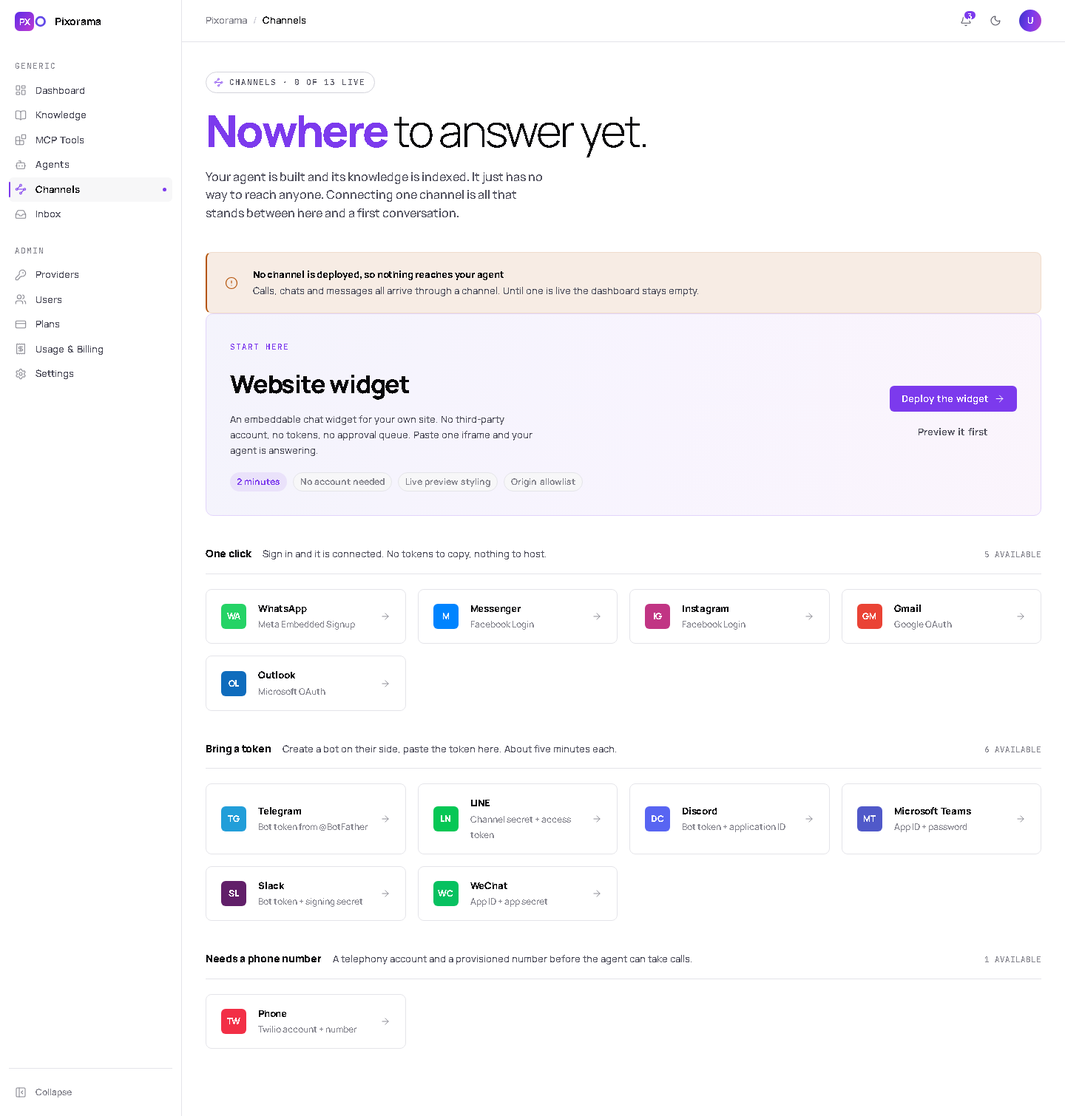
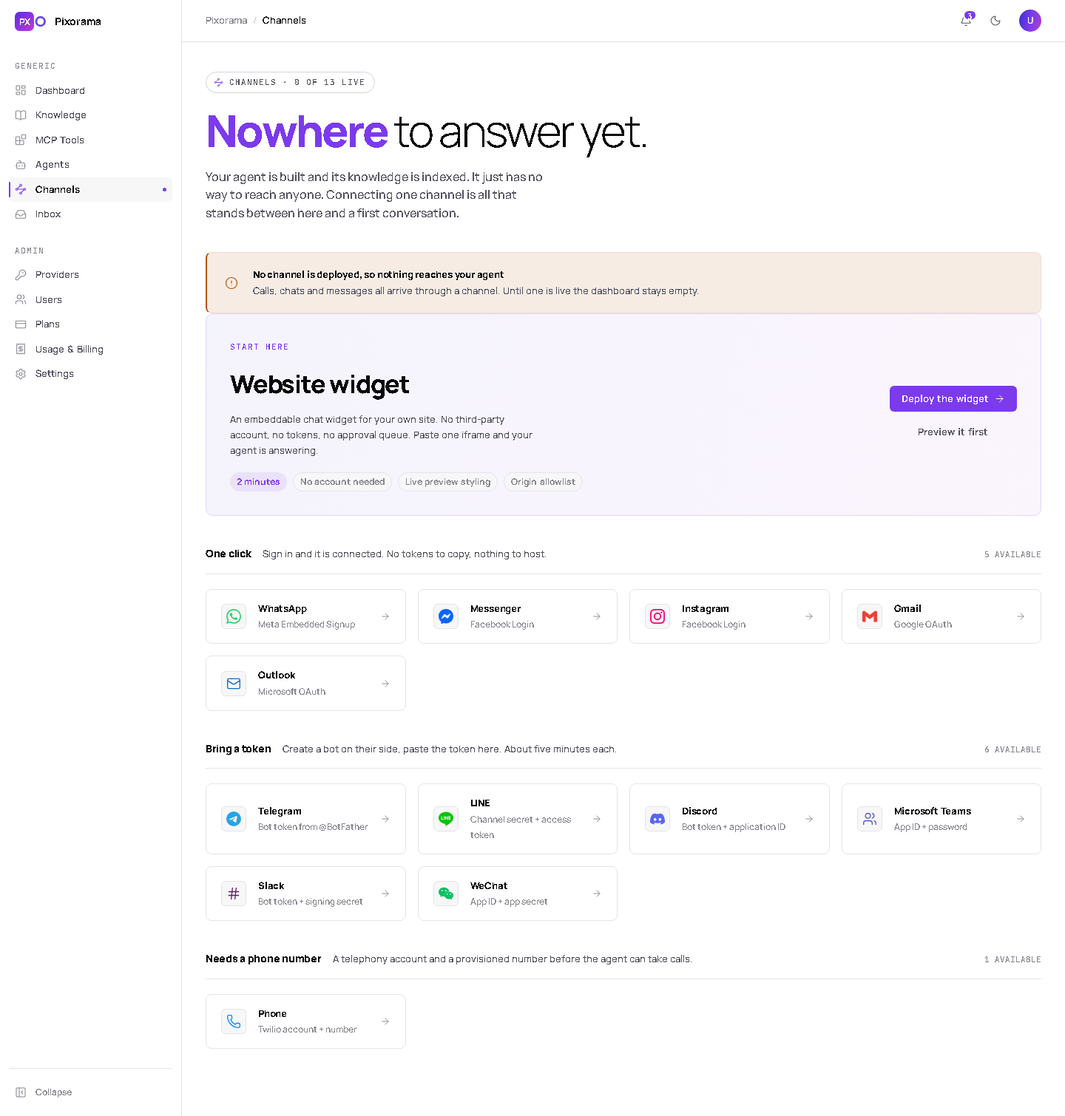
Use real brand marks for channels and tool catalogue
Channel tiles were two-letter squares — "WA", "TG", "IG" — which are not
logos at all. They now render the actual marks from simple-icons (CC0):
WhatsApp, Messenger, Instagram, Gmail, Telegram, LINE, Discord, WeChat,
plus GitHub, Notion, Jira, Stripe, HubSpot, Zendesk, Airtable, Drive,
Asana, Intercom, Calendly, Shopify, 1Password and Linear in the MCP
catalogue.

Microsoft, Slack, Twilio and Salesforce are absent on purpose. All four
had their icons removed from simple-icons at their own trademark
request, so there is no licensed mark to use. Rather than redraw them —
the exact habit the last two commits removed — they fall back to a
functional Lucide glyph in the brand colour: Outlook gets mail, Teams
gets users, Slack gets a hash because its channels are #channel, Twilio
gets a phone.

The mark container changed with them. A coloured slab with white
initials made sense for initials; for a logo it fights. Tiles now use a
neutral well with the mark in its own brand colour, which is also how
the live product presents them.

Applied everywhere a channel appears: the Channels grid, the Inbox
conversation list and thread header, and the deployed-channels list in
Settings.

diff --git a/index.html b/index.html
@@ -10,7 +10,7 @@
 <body>
 
 <svg width="0" height="0" style="position:absolute" aria-hidden="true">
-  <!-- Lucide (ISC) + the PXO brand mark. Generated by build-icons.mjs — do not edit by hand. -->
+  <!-- Lucide (ISC), simple-icons brand marks (CC0), and the PXO mark. Generated by build-icons.mjs — do not edit by hand. -->
   <defs>
     <symbol id="i-dash" viewBox="0 0 24 24" fill="none" stroke="currentColor" stroke-linecap="round" stroke-linejoin="round"><rect width="7" height="9" x="3" y="3" rx="1" /><rect width="7" height="5" x="14" y="3" rx="1" /><rect width="7" height="9" x="14" y="12" rx="1" /><rect width="7" height="5" x="3" y="16" rx="1" /></symbol>
     <symbol id="i-blocks" viewBox="0 0 24 24" fill="none" stroke="currentColor" stroke-linecap="round" stroke-linejoin="round"><path d="M10 22V7a1 1 0 0 0-1-1H4a2 2 0 0 0-2 2v12a2 2 0 0 0 2 2h12a2 2 0 0 0 2-2v-5a1 1 0 0 0-1-1H2" /><rect x="14" y="2" width="8" height="8" rx="1" /></symbol>
@@ -20,6 +20,9 @@
     <symbol id="i-info" viewBox="0 0 24 24" fill="none" stroke="currentColor" stroke-linecap="round" stroke-linejoin="round"><circle cx="12" cy="12" r="10" /><path d="M12 16v-4" /><path d="M12 8h.01" /></symbol>
     <symbol id="i-warn" viewBox="0 0 24 24" fill="none" stroke="currentColor" stroke-linecap="round" stroke-linejoin="round"><circle cx="12" cy="12" r="10" /><line x1="12" x2="12" y1="8" y2="12" /><line x1="12" x2="12.01" y1="16" y2="16" /></symbol>
     <symbol id="i-server" viewBox="0 0 24 24" fill="none" stroke="currentColor" stroke-linecap="round" stroke-linejoin="round"><rect width="20" height="8" x="2" y="2" rx="2" ry="2" /><rect width="20" height="8" x="2" y="14" rx="2" ry="2" /><line x1="6" x2="6.01" y1="6" y2="6" /><line x1="6" x2="6.01" y1="18" y2="18" /></symbol>
+    <symbol id="i-hash" viewBox="0 0 24 24" fill="none" stroke="currentColor" stroke-linecap="round" stroke-linejoin="round"><line x1="4" x2="20" y1="9" y2="9" /><line x1="4" x2="20" y1="15" y2="15" /><line x1="10" x2="8" y1="3" y2="21" /><line x1="16" x2="14" y1="3" y2="21" /></symbol>
+    <symbol id="i-cloud" viewBox="0 0 24 24" fill="none" stroke="currentColor" stroke-linecap="round" stroke-linejoin="round"><path d="M17.5 19H9a7 7 0 1 1 6.71-9h1.79a4.5 4.5 0 1 1 0 9Z" /></symbol>
+    <symbol id="i-mail" viewBox="0 0 24 24" fill="none" stroke="currentColor" stroke-linecap="round" stroke-linejoin="round"><path d="m22 7-8.991 5.727a2 2 0 0 1-2.009 0L2 7" /><rect x="2" y="4" width="20" height="16" rx="2" /></symbol>
     <symbol id="i-book" viewBox="0 0 24 24" fill="none" stroke="currentColor" stroke-linecap="round" stroke-linejoin="round"><path d="M12 5v16" /><path d="M20.001 19A2 2 0 0022 17V5a2 2 0 00-1.999-2L16 3.002A5 5 0 0012 5a5 5 0 00-4-2H4a2 2 0 00-2 2v12a2 2 0 001.999 2H8a5 5 0 014 2 5 5 0 014-2z" /></symbol>
     <symbol id="i-zap" viewBox="0 0 24 24" fill="none" stroke="currentColor" stroke-linecap="round" stroke-linejoin="round"><path d="M15.914 4a1.5 1.5 0 00-2.474-1.561l-9 9A1.5 1.5 0 005.5 14h4.002a.5.5 0 01.471.666L8.086 20a1.5 1.5 0 002.475 1.56l9-9A1.5 1.5 0 0018.5 10h-3.997a.5.5 0 01-.472-.667z" /></symbol>
     <symbol id="i-bot" viewBox="0 0 24 24" fill="none" stroke="currentColor" stroke-linecap="round" stroke-linejoin="round"><path d="M12 8V4H8" /><rect width="16" height="12" x="4" y="8" rx="2" /><path d="M2 14h2" /><path d="M20 14h2" /><path d="M15 13v2" /><path d="M9 13v2" /></symbol>
@@ -50,6 +53,29 @@
     <symbol id="i-close" viewBox="0 0 24 24" fill="none" stroke="currentColor" stroke-linecap="round" stroke-linejoin="round"><path d="M18 6 6 18" /><path d="m6 6 12 12" /></symbol>
     <symbol id="i-trash" viewBox="0 0 24 24" fill="none" stroke="currentColor" stroke-linecap="round" stroke-linejoin="round"><path d="M10 11v6" /><path d="M14 11v6" /><path d="M19 6v14a2 2 0 0 1-2 2H7a2 2 0 0 1-2-2V6" /><path d="M3 6h18" /><path d="M8 6V4a2 2 0 0 1 2-2h4a2 2 0 0 1 2 2v2" /></symbol>
     <symbol id="i-file" viewBox="0 0 24 24" fill="none" stroke="currentColor" stroke-linecap="round" stroke-linejoin="round"><path d="M6 22a2 2 0 0 1-2-2V4a2 2 0 0 1 2-2h8a2.4 2.4 0 0 1 1.704.706l3.588 3.588A2.4 2.4 0 0 1 20 8v12a2 2 0 0 1-2 2z" /><path d="M14 2v5a1 1 0 0 0 1 1h5" /><path d="M10 9H8" /><path d="M16 13H8" /><path d="M16 17H8" /></symbol>
+    <symbol id="b-whatsapp" viewBox="0 0 24 24"><path fill="currentColor" d="M17.472 14.382c-.297-.149-1.758-.867-2.03-.967-.273-.099-.471-.148-.67.15-.197.297-.767.966-.94 1.164-.173.199-.347.223-.644.075-.297-.15-1.255-.463-2.39-1.475-.883-.788-1.48-1.761-1.653-2.059-.173-.297-.018-.458.13-.606.134-.133.298-.347.446-.52.149-.174.198-.298.298-.497.099-.198.05-.371-.025-.52-.075-.149-.669-1.612-.916-2.207-.242-.579-.487-.5-.669-.51-.173-.008-.371-.01-.57-.01-.198 0-.52.074-.792.372-.272.297-1.04 1.016-1.04 2.479 0 1.462 1.065 2.875 1.213 3.074.149.198 2.096 3.2 5.077 4.487.709.306 1.262.489 1.694.625.712.227 1.36.195 1.871.118.571-.085 1.758-.719 2.006-1.413.248-.694.248-1.289.173-1.413-.074-.124-.272-.198-.57-.347m-5.421 7.403h-.004a9.87 9.87 0 01-5.031-1.378l-.361-.214-3.741.982.998-3.648-.235-.374a9.86 9.86 0 01-1.51-5.26c.001-5.45 4.436-9.884 9.888-9.884 2.64 0 5.122 1.03 6.988 2.898a9.825 9.825 0 012.893 6.994c-.003 5.45-4.437 9.884-9.885 9.884m8.413-18.297A11.815 11.815 0 0012.05 0C5.495 0 .16 5.335.157 11.892c0 2.096.547 4.142 1.588 5.945L.057 24l6.305-1.654a11.882 11.882 0 005.683 1.448h.005c6.554 0 11.89-5.335 11.893-11.893a11.821 11.821 0 00-3.48-8.413Z"/></symbol>
+    <symbol id="b-telegram" viewBox="0 0 24 24"><path fill="currentColor" d="M11.944 0A12 12 0 0 0 0 12a12 12 0 0 0 12 12 12 12 0 0 0 12-12A12 12 0 0 0 12 0a12 12 0 0 0-.056 0zm4.962 7.224c.1-.002.321.023.465.14a.506.506 0 0 1 .171.325c.016.093.036.306.02.472-.18 1.898-.962 6.502-1.36 8.627-.168.9-.499 1.201-.82 1.23-.696.065-1.225-.46-1.9-.902-1.056-.693-1.653-1.124-2.678-1.8-1.185-.78-.417-1.21.258-1.91.177-.184 3.247-2.977 3.307-3.23.007-.032.014-.15-.056-.212s-.174-.041-.249-.024c-.106.024-1.793 1.14-5.061 3.345-.48.33-.913.49-1.302.48-.428-.008-1.252-.241-1.865-.44-.752-.245-1.349-.374-1.297-.789.027-.216.325-.437.893-.663 3.498-1.524 5.83-2.529 6.998-3.014 3.332-1.386 4.025-1.627 4.476-1.635z"/></symbol>
+    <symbol id="b-line" viewBox="0 0 24 24"><path fill="currentColor" d="M19.365 9.863c.349 0 .63.285.63.631 0 .345-.281.63-.63.63H17.61v1.125h1.755c.349 0 .63.283.63.63 0 .344-.281.629-.63.629h-2.386c-.345 0-.627-.285-.627-.629V8.108c0-.345.282-.63.63-.63h2.386c.346 0 .627.285.627.63 0 .349-.281.63-.63.63H17.61v1.125h1.755zm-3.855 3.016c0 .27-.174.51-.432.596-.064.021-.133.031-.199.031-.211 0-.391-.09-.51-.25l-2.443-3.317v2.94c0 .344-.279.629-.631.629-.346 0-.626-.285-.626-.629V8.108c0-.27.173-.51.43-.595.06-.023.136-.033.194-.033.195 0 .375.104.495.254l2.462 3.33V8.108c0-.345.282-.63.63-.63.345 0 .63.285.63.63v4.771zm-5.741 0c0 .344-.282.629-.631.629-.345 0-.627-.285-.627-.629V8.108c0-.345.282-.63.63-.63.346 0 .628.285.628.63v4.771zm-2.466.629H4.917c-.345 0-.63-.285-.63-.629V8.108c0-.345.285-.63.63-.63.348 0 .63.285.63.63v4.141h1.756c.348 0 .629.283.629.63 0 .344-.282.629-.629.629M24 10.314C24 4.943 18.615.572 12 .572S0 4.943 0 10.314c0 4.811 4.27 8.842 10.035 9.608.391.082.923.258 1.058.59.12.301.079.766.038 1.08l-.164 1.02c-.045.301-.24 1.186 1.049.645 1.291-.539 6.916-4.078 9.436-6.975C23.176 14.393 24 12.458 24 10.314"/></symbol>
+    <symbol id="b-messenger" viewBox="0 0 24 24"><path fill="currentColor" d="M12 0C5.24 0 0 4.952 0 11.64c0 3.499 1.434 6.521 3.769 8.61a.96.96 0 0 1 .323.683l.065 2.135a.96.96 0 0 0 1.347.85l2.381-1.053a.96.96 0 0 1 .641-.046A13 13 0 0 0 12 23.28c6.76 0 12-4.952 12-11.64S18.76 0 12 0m6.806 7.44c.522-.03.971.567.63 1.094l-4.178 6.457a.707.707 0 0 1-.977.208l-3.87-2.504a.44.44 0 0 0-.49.007l-4.363 3.01c-.637.438-1.415-.317-.995-.966l4.179-6.457a.706.706 0 0 1 .977-.21l3.87 2.505c.15.097.344.094.491-.007l4.362-3.008a.7.7 0 0 1 .364-.13"/></symbol>
+    <symbol id="b-instagram" viewBox="0 0 24 24"><path fill="currentColor" d="M7.0301.084c-1.2768.0602-2.1487.264-2.911.5634-.7888.3075-1.4575.72-2.1228 1.3877-.6652.6677-1.075 1.3368-1.3802 2.127-.2954.7638-.4956 1.6365-.552 2.914-.0564 1.2775-.0689 1.6882-.0626 4.947.0062 3.2586.0206 3.6671.0825 4.9473.061 1.2765.264 2.1482.5635 2.9107.308.7889.72 1.4573 1.388 2.1228.6679.6655 1.3365 1.0743 2.1285 1.38.7632.295 1.6361.4961 2.9134.552 1.2773.056 1.6884.069 4.9462.0627 3.2578-.0062 3.668-.0207 4.9478-.0814 1.28-.0607 2.147-.2652 2.9098-.5633.7889-.3086 1.4578-.72 2.1228-1.3881.665-.6682 1.0745-1.3378 1.3795-2.1284.2957-.7632.4966-1.636.552-2.9124.056-1.2809.0692-1.6898.063-4.948-.0063-3.2583-.021-3.6668-.0817-4.9465-.0607-1.2797-.264-2.1487-.5633-2.9117-.3084-.7889-.72-1.4568-1.3876-2.1228C21.2982 1.33 20.628.9208 19.8378.6165 19.074.321 18.2017.1197 16.9244.0645 15.6471.0093 15.236-.005 11.977.0014 8.718.0076 8.31.0215 7.0301.0839m.1402 21.6932c-1.17-.0509-1.8053-.2453-2.2287-.408-.5606-.216-.96-.4771-1.3819-.895-.422-.4178-.6811-.8186-.9-1.378-.1644-.4234-.3624-1.058-.4171-2.228-.0595-1.2645-.072-1.6442-.079-4.848-.007-3.2037.0053-3.583.0607-4.848.05-1.169.2456-1.805.408-2.2282.216-.5613.4762-.96.895-1.3816.4188-.4217.8184-.6814 1.3783-.9003.423-.1651 1.0575-.3614 2.227-.4171 1.2655-.06 1.6447-.072 4.848-.079 3.2033-.007 3.5835.005 4.8495.0608 1.169.0508 1.8053.2445 2.228.408.5608.216.96.4754 1.3816.895.4217.4194.6816.8176.9005 1.3787.1653.4217.3617 1.056.4169 2.2263.0602 1.2655.0739 1.645.0796 4.848.0058 3.203-.0055 3.5834-.061 4.848-.051 1.17-.245 1.8055-.408 2.2294-.216.5604-.4763.96-.8954 1.3814-.419.4215-.8181.6811-1.3783.9-.4224.1649-1.0577.3617-2.2262.4174-1.2656.0595-1.6448.072-4.8493.079-3.2045.007-3.5825-.006-4.848-.0608M16.953 5.5864A1.44 1.44 0 1 0 18.39 4.144a1.44 1.44 0 0 0-1.437 1.4424M5.8385 12.012c.0067 3.4032 2.7706 6.1557 6.173 6.1493 3.4026-.0065 6.157-2.7701 6.1506-6.1733-.0065-3.4032-2.771-6.1565-6.174-6.1498-3.403.0067-6.156 2.771-6.1496 6.1738M8 12.0077a4 4 0 1 1 4.008 3.9921A3.9996 3.9996 0 0 1 8 12.0077"/></symbol>
+    <symbol id="b-discord" viewBox="0 0 24 24"><path fill="currentColor" d="M20.317 4.3698a19.7913 19.7913 0 00-4.8851-1.5152.0741.0741 0 00-.0785.0371c-.211.3753-.4447.8648-.6083 1.2495-1.8447-.2762-3.68-.2762-5.4868 0-.1636-.3933-.4058-.8742-.6177-1.2495a.077.077 0 00-.0785-.037 19.7363 19.7363 0 00-4.8852 1.515.0699.0699 0 00-.0321.0277C.5334 9.0458-.319 13.5799.0992 18.0578a.0824.0824 0 00.0312.0561c2.0528 1.5076 4.0413 2.4228 5.9929 3.0294a.0777.0777 0 00.0842-.0276c.4616-.6304.8731-1.2952 1.226-1.9942a.076.076 0 00-.0416-.1057c-.6528-.2476-1.2743-.5495-1.8722-.8923a.077.077 0 01-.0076-.1277c.1258-.0943.2517-.1923.3718-.2914a.0743.0743 0 01.0776-.0105c3.9278 1.7933 8.18 1.7933 12.0614 0a.0739.0739 0 01.0785.0095c.1202.099.246.1981.3728.2924a.077.077 0 01-.0066.1276 12.2986 12.2986 0 01-1.873.8914.0766.0766 0 00-.0407.1067c.3604.698.7719 1.3628 1.225 1.9932a.076.076 0 00.0842.0286c1.961-.6067 3.9495-1.5219 6.0023-3.0294a.077.077 0 00.0313-.0552c.5004-5.177-.8382-9.6739-3.5485-13.6604a.061.061 0 00-.0312-.0286zM8.02 15.3312c-1.1825 0-2.1569-1.0857-2.1569-2.419 0-1.3332.9555-2.4189 2.157-2.4189 1.2108 0 2.1757 1.0952 2.1568 2.419 0 1.3332-.9555 2.4189-2.1569 2.4189zm7.9748 0c-1.1825 0-2.1569-1.0857-2.1569-2.419 0-1.3332.9554-2.4189 2.1569-2.4189 1.2108 0 2.1757 1.0952 2.1568 2.419 0 1.3332-.946 2.4189-2.1568 2.4189Z"/></symbol>
+    <symbol id="b-wechat" viewBox="0 0 24 24"><path fill="currentColor" d="M8.691 2.188C3.891 2.188 0 5.476 0 9.53c0 2.212 1.17 4.203 3.002 5.55a.59.59 0 0 1 .213.665l-.39 1.48c-.019.07-.048.141-.048.213 0 .163.13.295.29.295a.326.326 0 0 0 .167-.054l1.903-1.114a.864.864 0 0 1 .717-.098 10.16 10.16 0 0 0 2.837.403c.276 0 .543-.027.811-.05-.857-2.578.157-4.972 1.932-6.446 1.703-1.415 3.882-1.98 5.853-1.838-.576-3.583-4.196-6.348-8.596-6.348zM5.785 5.991c.642 0 1.162.529 1.162 1.18a1.17 1.17 0 0 1-1.162 1.178A1.17 1.17 0 0 1 4.623 7.17c0-.651.52-1.18 1.162-1.18zm5.813 0c.642 0 1.162.529 1.162 1.18a1.17 1.17 0 0 1-1.162 1.178 1.17 1.17 0 0 1-1.162-1.178c0-.651.52-1.18 1.162-1.18zm5.34 2.867c-1.797-.052-3.746.512-5.28 1.786-1.72 1.428-2.687 3.72-1.78 6.22.942 2.453 3.666 4.229 6.884 4.229.826 0 1.622-.12 2.361-.336a.722.722 0 0 1 .598.082l1.584.926a.272.272 0 0 0 .14.047c.134 0 .24-.111.24-.247 0-.06-.023-.12-.038-.177l-.327-1.233a.582.582 0 0 1-.023-.156.49.49 0 0 1 .201-.398C23.024 18.48 24 16.82 24 14.98c0-3.21-2.931-5.837-6.656-6.088V8.89c-.135-.01-.27-.027-.407-.03zm-2.53 3.274c.535 0 .969.44.969.982a.976.976 0 0 1-.969.983.976.976 0 0 1-.969-.983c0-.542.434-.982.97-.982zm4.844 0c.535 0 .969.44.969.982a.976.976 0 0 1-.969.983.976.976 0 0 1-.969-.983c0-.542.434-.982.969-.982z"/></symbol>
+    <symbol id="b-gmail" viewBox="0 0 24 24"><path fill="currentColor" d="M24 5.457v13.909c0 .904-.732 1.636-1.636 1.636h-3.819V11.73L12 16.64l-6.545-4.91v9.273H1.636A1.636 1.636 0 0 1 0 19.366V5.457c0-2.023 2.309-3.178 3.927-1.964L5.455 4.64 12 9.548l6.545-4.91 1.528-1.145C21.69 2.28 24 3.434 24 5.457z"/></symbol>
+    <symbol id="b-github" viewBox="0 0 24 24"><path fill="currentColor" d="M12 .297c-6.63 0-12 5.373-12 12 0 5.303 3.438 9.8 8.205 11.385.6.113.82-.258.82-.577 0-.285-.01-1.04-.015-2.04-3.338.724-4.042-1.61-4.042-1.61C4.422 18.07 3.633 17.7 3.633 17.7c-1.087-.744.084-.729.084-.729 1.205.084 1.838 1.236 1.838 1.236 1.07 1.835 2.809 1.305 3.495.998.108-.776.417-1.305.76-1.605-2.665-.3-5.466-1.332-5.466-5.93 0-1.31.465-2.38 1.235-3.22-.135-.303-.54-1.523.105-3.176 0 0 1.005-.322 3.3 1.23.96-.267 1.98-.399 3-.405 1.02.006 2.04.138 3 .405 2.28-1.552 3.285-1.23 3.285-1.23.645 1.653.24 2.873.12 3.176.765.84 1.23 1.91 1.23 3.22 0 4.61-2.805 5.625-5.475 5.92.42.36.81 1.096.81 2.22 0 1.606-.015 2.896-.015 3.286 0 .315.21.69.825.57C20.565 22.092 24 17.592 24 12.297c0-6.627-5.373-12-12-12"/></symbol>
+    <symbol id="b-linear" viewBox="0 0 24 24"><path fill="currentColor" d="M2.886 4.18A11.982 11.982 0 0 1 11.99 0C18.624 0 24 5.376 24 12.009c0 3.64-1.62 6.903-4.18 9.105L2.887 4.18ZM1.817 5.626l16.556 16.556c-.524.33-1.075.62-1.65.866L.951 7.277c.247-.575.537-1.126.866-1.65ZM.322 9.163l14.515 14.515c-.71.172-1.443.282-2.195.322L0 11.358a12 12 0 0 1 .322-2.195Zm-.17 4.862 9.823 9.824a12.02 12.02 0 0 1-9.824-9.824Z"/></symbol>
+    <symbol id="b-notion" viewBox="0 0 24 24"><path fill="currentColor" d="M4.459 4.208c.746.606 1.026.56 2.428.466l13.215-.793c.28 0 .047-.28-.046-.326L17.86 1.968c-.42-.326-.981-.7-2.055-.607L3.01 2.295c-.466.046-.56.28-.374.466zm.793 3.08v13.904c0 .747.373 1.027 1.214.98l14.523-.84c.841-.046.935-.56.935-1.167V6.354c0-.606-.233-.933-.748-.887l-15.177.887c-.56.047-.747.327-.747.933zm14.337.745c.093.42 0 .84-.42.888l-.7.14v10.264c-.608.327-1.168.514-1.635.514-.748 0-.935-.234-1.495-.933l-4.577-7.186v6.952L12.21 19s0 .84-1.168.84l-3.222.186c-.093-.186 0-.653.327-.746l.84-.233V9.854L7.822 9.76c-.094-.42.14-1.026.793-1.073l3.456-.233 4.764 7.279v-6.44l-1.215-.139c-.093-.514.28-.887.747-.933zM1.936 1.035l13.31-.98c1.634-.14 2.055-.047 3.082.7l4.249 2.986c.7.513.934.653.934 1.213v16.378c0 1.026-.373 1.634-1.68 1.726l-15.458.934c-.98.047-1.448-.093-1.962-.747l-3.129-4.06c-.56-.747-.793-1.306-.793-1.96V2.667c0-.839.374-1.54 1.447-1.632z"/></symbol>
+    <symbol id="b-jira" viewBox="0 0 24 24"><path fill="currentColor" d="M11.571 11.513H0a5.218 5.218 0 0 0 5.232 5.215h2.13v2.057A5.215 5.215 0 0 0 12.575 24V12.518a1.005 1.005 0 0 0-1.005-1.005zm5.723-5.756H5.736a5.215 5.215 0 0 0 5.215 5.214h2.129v2.058a5.218 5.218 0 0 0 5.215 5.214V6.758a1.001 1.001 0 0 0-1.001-1.001zM23.013 0H11.455a5.215 5.215 0 0 0 5.215 5.215h2.129v2.057A5.215 5.215 0 0 0 24 12.483V1.005A1.001 1.001 0 0 0 23.013 0Z"/></symbol>
+    <symbol id="b-hubspot" viewBox="0 0 24 24"><path fill="currentColor" d="M18.164 7.93V5.084a2.198 2.198 0 001.267-1.978v-.067A2.2 2.2 0 0017.238.845h-.067a2.2 2.2 0 00-2.193 2.193v.067a2.196 2.196 0 001.252 1.973l.013.006v2.852a6.22 6.22 0 00-2.969 1.31l.012-.01-7.828-6.095A2.497 2.497 0 104.3 4.656l-.012.006 7.697 5.991a6.176 6.176 0 00-1.038 3.446c0 1.343.425 2.588 1.147 3.607l-.013-.02-2.342 2.343a1.968 1.968 0 00-.58-.095h-.002a2.033 2.033 0 102.033 2.033 1.978 1.978 0 00-.1-.595l.005.014 2.317-2.317a6.247 6.247 0 104.782-11.134l-.036-.005zm-.964 9.378a3.206 3.206 0 113.215-3.207v.002a3.206 3.206 0 01-3.207 3.207z"/></symbol>
+    <symbol id="b-stripe" viewBox="0 0 24 24"><path fill="currentColor" d="M13.976 9.15c-2.172-.806-3.356-1.426-3.356-2.409 0-.831.683-1.305 1.901-1.305 2.227 0 4.515.858 6.09 1.631l.89-5.494C18.252.975 15.697 0 12.165 0 9.667 0 7.589.654 6.104 1.872 4.56 3.147 3.757 4.992 3.757 7.218c0 4.039 2.467 5.76 6.476 7.219 2.585.92 3.445 1.574 3.445 2.583 0 .98-.84 1.545-2.354 1.545-1.875 0-4.965-.921-6.99-2.109l-.9 5.555C5.175 22.99 8.385 24 11.714 24c2.641 0 4.843-.624 6.328-1.813 1.664-1.305 2.525-3.236 2.525-5.732 0-4.128-2.524-5.851-6.594-7.305h.003z"/></symbol>
+    <symbol id="b-zendesk" viewBox="0 0 24 24"><path fill="currentColor" d="M12.914 2.904V16.29L24 2.905H12.914zM0 2.906C0 5.966 2.483 8.45 5.543 8.45s5.542-2.484 5.543-5.544H0zm11.086 4.807L0 21.096h11.086V7.713zm7.37 7.84c-3.063 0-5.542 2.48-5.542 5.543H24c0-3.06-2.48-5.543-5.543-5.543z"/></symbol>
+    <symbol id="b-airtable" viewBox="0 0 24 24"><path fill="currentColor" d="M11.992 1.966c-.434 0-.87.086-1.28.257L1.779 5.917c-.503.208-.49.908.012 1.116l8.982 3.558a3.266 3.266 0 0 0 2.454 0l8.982-3.558c.503-.196.503-.908.012-1.116l-8.957-3.694a3.255 3.255 0 0 0-1.272-.257zM23.4 8.056a.589.589 0 0 0-.222.045l-10.012 3.877a.612.612 0 0 0-.38.564v8.896a.6.6 0 0 0 .821.552L23.62 18.1a.583.583 0 0 0 .38-.551V8.653a.6.6 0 0 0-.6-.596zM.676 8.095a.644.644 0 0 0-.48.19C.086 8.396 0 8.53 0 8.69v8.355c0 .442.515.737.908.54l6.27-3.006.307-.147 2.969-1.436c.466-.22.43-.908-.061-1.092L.883 8.138a.57.57 0 0 0-.207-.044z"/></symbol>
+    <symbol id="b-googledrive" viewBox="0 0 24 24"><path fill="currentColor" d="M12.01 1.485c-2.082 0-3.754.02-3.743.047.01.02 1.708 3.001 3.774 6.62l3.76 6.574h3.76c2.081 0 3.753-.02 3.742-.047-.005-.02-1.708-3.001-3.775-6.62l-3.76-6.574zm-4.76 1.73a789.828 789.861 0 0 0-3.63 6.319L0 15.868l1.89 3.298 1.885 3.297 3.62-6.335 3.618-6.33-1.88-3.287C8.1 4.704 7.255 3.22 7.25 3.214zm2.259 12.653-.203.348c-.114.198-.96 1.672-1.88 3.287a423.93 423.948 0 0 1-1.698 2.97c-.01.026 3.24.042 7.222.042h7.244l1.796-3.157c.992-1.734 1.85-3.23 1.906-3.323l.104-.167h-7.249z"/></symbol>
+    <symbol id="b-asana" viewBox="0 0 24 24"><path fill="currentColor" d="M18.78 12.653c-2.882 0-5.22 2.336-5.22 5.22s2.338 5.22 5.22 5.22 5.22-2.34 5.22-5.22-2.336-5.22-5.22-5.22zm-13.56 0c-2.88 0-5.22 2.337-5.22 5.22s2.338 5.22 5.22 5.22 5.22-2.338 5.22-5.22-2.336-5.22-5.22-5.22zm12-6.525c0 2.883-2.337 5.22-5.22 5.22-2.882 0-5.22-2.337-5.22-5.22 0-2.88 2.338-5.22 5.22-5.22 2.883 0 5.22 2.34 5.22 5.22z"/></symbol>
+    <symbol id="b-intercom" viewBox="0 0 24 24"><path fill="currentColor" d="M21 0H3C1.343 0 0 1.343 0 3v18c0 1.658 1.343 3 3 3h18c1.658 0 3-1.342 3-3V3c0-1.657-1.342-3-3-3zm-5.801 4.399c0-.44.36-.8.802-.8.44 0 .8.36.8.8v10.688c0 .442-.36.801-.8.801-.443 0-.802-.359-.802-.801V4.399zM11.2 3.994c0-.44.357-.799.8-.799s.8.359.8.799v11.602c0 .44-.357.8-.8.8s-.8-.36-.8-.8V3.994zm-4 .405c0-.44.359-.8.799-.8.443 0 .802.36.802.8v10.688c0 .442-.36.801-.802.801-.44 0-.799-.359-.799-.801V4.399zM3.199 6c0-.442.36-.8.802-.8.44 0 .799.358.799.8v7.195c0 .441-.359.8-.799.8-.443 0-.802-.36-.802-.8V6zM20.52 18.202c-.123.105-3.086 2.593-8.52 2.593-5.433 0-8.397-2.486-8.521-2.593-.335-.288-.375-.792-.086-1.128.285-.334.79-.375 1.125-.09.047.041 2.693 2.211 7.481 2.211 4.848 0 7.456-2.186 7.479-2.207.334-.289.839-.25 1.128.086.289.336.25.84-.086 1.128zm.281-5.007c0 .441-.36.8-.801.8-.441 0-.801-.36-.801-.8V6c0-.442.361-.8.801-.8.441 0 .801.357.801.8v7.195z"/></symbol>
+    <symbol id="b-calendly" viewBox="0 0 24 24"><path fill="currentColor" d="M19.655 14.262c.281 0 .557.023.828.064 0 .005-.005.01-.005.014-.105.267-.234.534-.381.786l-1.219 2.106c-1.112 1.936-3.177 3.127-5.411 3.127h-2.432c-2.23 0-4.294-1.191-5.412-3.127l-1.218-2.106a6.251 6.251 0 0 1 0-6.252l1.218-2.106C6.736 4.832 8.8 3.641 11.035 3.641h2.432c2.23 0 4.294 1.191 5.411 3.127l1.219 2.106c.147.252.271.519.381.786 0 .004.005.009.005.014-.267.041-.543.064-.828.064-1.816 0-2.501-.607-3.291-1.306-.764-.676-1.711-1.517-3.44-1.517h-1.029c-1.251 0-2.387.455-3.2 1.278-.796.805-1.233 1.904-1.233 3.099v1.411c0 1.196.437 2.295 1.233 3.099.813.823 1.949 1.278 3.2 1.278h1.034c1.729 0 2.676-.841 3.439-1.517.791-.703 1.471-1.306 3.287-1.301Zm.005-3.237c.399 0 .794-.036 1.179-.11-.002-.004-.002-.01-.002-.014-.073-.414-.193-.823-.349-1.218.731-.12 1.407-.396 1.986-.819 0-.004-.005-.013-.005-.018-.331-1.085-.832-2.101-1.489-3.03-.649-.915-1.435-1.719-2.331-2.395-1.867-1.398-4.088-2.138-6.428-2.138-1.448 0-2.855.28-4.175.841-1.273.543-2.423 1.315-3.407 2.299S2.878 6.552 2.341 7.83c-.557 1.324-.842 2.726-.842 4.175 0 1.448.281 2.855.842 4.174.542 1.274 1.314 2.423 2.298 3.407s2.129 1.761 3.407 2.299c1.324.556 2.727.841 4.175.841 2.34 0 4.561-.74 6.428-2.137a10.815 10.815 0 0 0 2.331-2.396c.652-.929 1.158-1.949 1.489-3.03 0-.004.005-.014.005-.018-.579-.423-1.255-.699-1.986-.819.161-.395.276-.804.349-1.218.005-.009.005-.014.005-.023.869.166 1.692.506 2.404 1.035.685.505.552 1.075.446 1.416C22.184 20.437 17.619 24 12.221 24c-6.625 0-12-5.375-12-12s5.37-12 12-12c5.398 0 9.963 3.563 11.471 8.464.106.341.239.915-.446 1.421-.717.529-1.535.873-2.404 1.034.128.716.128 1.45 0 2.166-.387-.074-.782-.11-1.182-.11-4.184 0-3.968 2.823-6.736 2.823h-1.029c-1.899 0-3.15-1.357-3.15-3.095v-1.411c0-1.738 1.251-3.094 3.15-3.094h1.034c2.768 0 2.552 2.823 6.731 2.827Z"/></symbol>
+    <symbol id="b-shopify" viewBox="0 0 24 24"><path fill="currentColor" d="M15.337 23.979l7.216-1.561s-2.604-17.613-2.625-17.73c-.018-.116-.114-.192-.211-.192s-1.929-.136-1.929-.136-1.275-1.274-1.439-1.411c-.045-.037-.075-.057-.121-.074l-.914 21.104h.023zM11.71 11.305s-.81-.424-1.774-.424c-1.447 0-1.504.906-1.504 1.141 0 1.232 3.24 1.715 3.24 4.629 0 2.295-1.44 3.76-3.406 3.76-2.354 0-3.54-1.465-3.54-1.465l.646-2.086s1.245 1.066 2.28 1.066c.675 0 .975-.545.975-.932 0-1.619-2.654-1.694-2.654-4.359-.034-2.237 1.571-4.416 4.827-4.416 1.257 0 1.875.361 1.875.361l-.945 2.715-.02.01zM11.17.83c.136 0 .271.038.405.135-.984.465-2.064 1.639-2.508 3.992-.656.213-1.293.405-1.889.578C7.697 3.75 8.951.84 11.17.84V.83zm1.235 2.949v.135c-.754.232-1.583.484-2.394.736.466-1.777 1.333-2.645 2.085-2.971.193.501.309 1.176.309 2.1zm.539-2.234c.694.074 1.141.867 1.429 1.755-.349.114-.735.231-1.158.366v-.252c0-.752-.096-1.371-.271-1.871v.002zm2.992 1.289c-.02 0-.06.021-.078.021s-.289.075-.714.21c-.423-1.233-1.176-2.37-2.508-2.37h-.115C12.135.209 11.669 0 11.265 0 8.159 0 6.675 3.877 6.21 5.846c-1.194.365-2.063.636-2.16.674-.675.213-.694.232-.772.87-.075.462-1.83 14.063-1.83 14.063L15.009 24l.927-21.166z"/></symbol>
+    <symbol id="b-1password" viewBox="0 0 24 24"><path fill="currentColor" d="M12 0c6.627 0 12 5.373 12 12 0 6.628-5.373 12-12 12S0 18.628 0 12C0 5.373 5.373 0 12 0m-.893 4.86c-.485 0-.727.001-.913.095a.87.87 0 0 0-.378.379c-.094.185-.095.428-.095.912v2.747c0 .12 0 .182.016.238q.02.075.065.138a1 1 0 0 0 .175.162l.695.564c.113.092.17.139.19.194a.22.22 0 0 1 0 .15c-.02.056-.077.102-.19.194l-.695.564a1 1 0 0 0-.175.162.4.4 0 0 0-.065.138 1 1 0 0 0-.016.238v6.019c0 .485 0 .728.095.913a.87.87 0 0 0 .378.378c.186.094.428.094.913.094h1.786c.485 0 .727 0 .913-.094a.87.87 0 0 0 .378-.378c.095-.185.095-.428.095-.913v-2.747c0-.12 0-.182-.016-.238a.4.4 0 0 0-.065-.138 1 1 0 0 0-.175-.162l-.695-.564c-.113-.092-.17-.138-.191-.193a.22.22 0 0 1 0-.152c.02-.055.078-.1.19-.193l.696-.564a1 1 0 0 0 .175-.162.4.4 0 0 0 .065-.138 1 1 0 0 0 .016-.238V6.246c0-.484 0-.727-.095-.912a.87.87 0 0 0-.378-.379c-.186-.094-.428-.094-.913-.094Z"/></symbol>
+    <symbol id="b-abstract" viewBox="0 0 24 24"><path fill="currentColor" d="M12 0c9.601 0 12 2.399 12 12 0 9.601-2.399 12-12 12-9.601 0-12-2.399-12-12C0 2.399 2.399 0 12 0zm-1.969 18.564c2.524.003 4.604-2.07 4.609-4.595 0-2.521-2.074-4.595-4.595-4.595S5.45 11.449 5.45 13.969c0 2.516 2.065 4.588 4.581 4.595zm8.344-.189V5.625H5.625v2.247h10.498v10.503h2.252zm-8.344-6.748a2.343 2.343 0 11-.002 4.686 2.343 2.343 0 01.002-4.686z"/></symbol>
     <symbol id="i-pxo" viewBox="0 0 197 122">
       <linearGradient id="pxoGrad" x1="0" y1="0" x2="1" y2="1">
         <stop offset="0%" stop-color="#5B2BE8"/>

diff --git a/app/store.js b/app/store.js
@@ -12,20 +12,24 @@ const now = () => Date.now();
 
 /* --- Static catalogues (not user state) --------------------------------- */
 
+/* brand: a simple-icons slug rendered as #b-<slug>.
+   fb: a Lucide fallback for brands simple-icons no longer carries (Microsoft,
+   Slack and Twilio all had their marks removed at their own request). We show a
+   functional glyph in the brand colour rather than redrawing someone's logo. */
 export const CHANNEL_TYPES = [
-  { id: "website",   name: "Website",         group: "instant", mark: "WS", colour: "#7c3aed", req: "Embeddable widget, no account needed", setup: "2 minutes" },
-  { id: "whatsapp",  name: "WhatsApp",        group: "one",     mark: "WA", colour: "#25D366", req: "Meta Embedded Signup" },
-  { id: "messenger", name: "Messenger",       group: "one",     mark: "M",  colour: "#0084FF", req: "Facebook Login" },
-  { id: "instagram", name: "Instagram",       group: "one",     mark: "IG", colour: "#C13584", req: "Facebook Login" },
-  { id: "gmail",     name: "Gmail",           group: "one",     mark: "GM", colour: "#EA4335", req: "Google OAuth" },
-  { id: "outlook",   name: "Outlook",         group: "one",     mark: "OL", colour: "#0F6CBD", req: "Microsoft OAuth" },
-  { id: "telegram",  name: "Telegram",        group: "byo",     mark: "TG", colour: "#229ED9", req: "Bot token from @BotFather" },
-  { id: "line",      name: "LINE",            group: "byo",     mark: "LN", colour: "#06C755", req: "Channel secret + access token" },
-  { id: "discord",   name: "Discord",         group: "byo",     mark: "DC", colour: "#5865F2", req: "Bot token + application ID" },
-  { id: "teams",     name: "Microsoft Teams", group: "byo",     mark: "MT", colour: "#5059C9", req: "App ID + password" },
-  { id: "slack",     name: "Slack",           group: "byo",     mark: "SL", colour: "#611f69", req: "Bot token + signing secret" },
-  { id: "wechat",    name: "WeChat",          group: "byo",     mark: "WC", colour: "#07C160", req: "App ID + app secret" },
-  { id: "phone",     name: "Phone",           group: "num",     mark: "TW", colour: "#F22F46", req: "Twilio account + number" },
+  { id: "website",   name: "Website",         group: "instant", fb: "globe",  colour: "#0EA5A5", req: "Embeddable widget, no account needed", setup: "2 minutes" },
+  { id: "whatsapp",  name: "WhatsApp",        group: "one",  brand: "whatsapp",  colour: "#25D366", req: "Meta Embedded Signup" },
+  { id: "messenger", name: "Messenger",       group: "one",  brand: "messenger", colour: "#0866FF", req: "Facebook Login" },
+  { id: "instagram", name: "Instagram",       group: "one",  brand: "instagram", colour: "#FF0069", req: "Facebook Login" },
+  { id: "gmail",     name: "Gmail",           group: "one",  brand: "gmail",     colour: "#EA4335", req: "Google OAuth" },
+  { id: "outlook",   name: "Outlook",         group: "one",  fb: "mail",         colour: "#0F6CBD", req: "Microsoft OAuth" },
+  { id: "telegram",  name: "Telegram",        group: "byo",  brand: "telegram",  colour: "#26A5E4", req: "Bot token from @BotFather" },
+  { id: "line",      name: "LINE",            group: "byo",  brand: "line",      colour: "#00C300", req: "Channel secret + access token" },
+  { id: "discord",   name: "Discord",         group: "byo",  brand: "discord",   colour: "#5865F2", req: "Bot token + application ID" },
+  { id: "teams",     name: "Microsoft Teams", group: "byo",  fb: "users",        colour: "#5059C9", req: "App ID + password" },
+  { id: "slack",     name: "Slack",           group: "byo",  fb: "hash",         colour: "#611F69", req: "Bot token + signing secret" },
+  { id: "wechat",    name: "WeChat",          group: "byo",  brand: "wechat",    colour: "#07C160", req: "App ID + app secret" },
+  { id: "phone",     name: "Phone",           group: "num",  fb: "phone",        colour: "#0A84FF", req: "Twilio account + number" },
 ];
 
 export const CHANNEL_GROUPS = [
@@ -42,30 +46,30 @@ export const PROVIDER_KINDS = [
 ];
 
 export const MCP_CATALOG = [
-  { name: "GitHub",         cat: "developer tools",       desc: "Repositories, issues, pull requests and actions.", colour: "#181717", mark: "GH" },
-  { name: "Linear",         cat: "project management",    desc: "Issues, cycles and project tracking for software teams.", colour: "#5E6AD2", mark: "LI" },
-  { name: "Notion",         cat: "documents",             desc: "Pages, databases and wiki content.", colour: "#111", mark: "NO" },
-  { name: "Slack",          cat: "communication",         desc: "Post messages, read channels and search history.", colour: "#611f69", mark: "SL" },
-  { name: "Jira",           cat: "project management",    desc: "Issue tracking and agile boards.", colour: "#0052CC", mark: "JI" },
-  { name: "Salesforce",     cat: "CRM",                   desc: "Accounts, opportunities and contact records.", colour: "#00A1E0", mark: "SF" },
-  { name: "HubSpot",        cat: "CRM",                   desc: "Contacts, deals and marketing automation.", colour: "#FF7A59", mark: "HS" },
-  { name: "Stripe",         cat: "payments",              desc: "Customers, charges, subscriptions and invoices.", colour: "#635BFF", mark: "ST" },
-  { name: "Zendesk",        cat: "support",               desc: "Tickets, users and help centre articles.", colour: "#03363D", mark: "ZD" },
-  { name: "Airtable",       cat: "databases",             desc: "Bases, tables and records.", colour: "#18BFFF", mark: "AT" },
-  { name: "Google Drive",   cat: "documents",             desc: "Files, folders and shared drives.", colour: "#1FA463", mark: "GD" },
-  { name: "Gmail",          cat: "email",                 desc: "Read, search, draft and send mail.", colour: "#EA4335", mark: "GM" },
-  { name: "Asana",          cat: "project management",    desc: "Tasks, projects and portfolios.", colour: "#F06A6A", mark: "AS" },
-  { name: "Intercom",       cat: "support",               desc: "Conversations, contacts and help articles.", colour: "#1F8DED", mark: "IC" },
-  { name: "Calendly",       cat: "scheduling",            desc: "Event types, invitees and availability.", colour: "#006BFF", mark: "CA" },
-  { name: "Twilio",         cat: "communication",         desc: "SMS, voice and phone number management.", colour: "#F22F46", mark: "TW" },
-  { name: "Shopify",        cat: "commerce",              desc: "Products, orders, customers and inventory.", colour: "#96BF48", mark: "SH" },
-  { name: "1Password",      cat: "security & identity",   desc: "Password manager and digital vault for secure credential storage.", colour: "#0572EC", mark: "1P" },
-  { name: "AbuseIPDB",      cat: "security & identity",   desc: "Central repository for reporting and checking abusive IPs.", colour: "#C8262A", mark: "AB" },
-  { name: "ActiveCampaign", cat: "marketing automation",  desc: "Marketing automation and CRM for email campaigns.", colour: "#356AE6", mark: "AC" },
-  { name: "Ably",           cat: "developer tools",       desc: "Realtime messaging platform for live features.", colour: "#FF5416", mark: "AY" },
-  { name: "2chat",          cat: "communication",         desc: "Programmable API for WhatsApp and other text channels.", colour: "#1D4ED8", mark: "2C" },
-  { name: "Abstract",       cat: "developer tools",       desc: "APIs for validation, enrichment and data tasks.", colour: "#111827", mark: "AB" },
-  { name: "21risk",         cat: "business intelligence", desc: "Checklists, audits and compliance workflows.", colour: "#16A34A", mark: "21" },
+  { name: "GitHub",         cat: "developer tools",       desc: "Repositories, issues, pull requests and actions.", colour: "#181717", brand: "github", mark: "GH" },
+  { name: "Linear",         cat: "project management",    desc: "Issues, cycles and project tracking for software teams.", colour: "#5E6AD2", brand: "linear", mark: "LI" },
+  { name: "Notion",         cat: "documents",             desc: "Pages, databases and wiki content.", colour: "#111", brand: "notion", mark: "NO" },
+  { name: "Slack",          cat: "communication",         desc: "Post messages, read channels and search history.", colour: "#611f69", fb: "hash", mark: "SL" },
+  { name: "Jira",           cat: "project management",    desc: "Issue tracking and agile boards.", colour: "#0052CC", brand: "jira", mark: "JI" },
+  { name: "Salesforce",     cat: "CRM",                   desc: "Accounts, opportunities and contact records.", colour: "#00A1E0", fb: "cloud", mark: "SF" },
+  { name: "HubSpot",        cat: "CRM",                   desc: "Contacts, deals and marketing automation.", colour: "#FF7A59", brand: "hubspot", mark: "HS" },
+  { name: "Stripe",         cat: "payments",              desc: "Customers, charges, subscriptions and invoices.", colour: "#635BFF", brand: "stripe", mark: "ST" },
+  { name: "Zendesk",        cat: "support",               desc: "Tickets, users and help centre articles.", colour: "#03363D", brand: "zendesk", mark: "ZD" },
+  { name: "Airtable",       cat: "databases",             desc: "Bases, tables and records.", colour: "#18BFFF", brand: "airtable", mark: "AT" },
+  { name: "Google Drive",   cat: "documents",             desc: "Files, folders and shared drives.", colour: "#1FA463", brand: "googledrive", mark: "GD" },
+  { name: "Gmail",          cat: "email",                 desc: "Read, search, draft and send mail.", colour: "#EA4335", brand: "gmail", mark: "GM" },
+  { name: "Asana",          cat: "project management",    desc: "Tasks, projects and portfolios.", colour: "#F06A6A", brand: "asana", mark: "AS" },
+  { name: "Intercom",       cat: "support",               desc: "Conversations, contacts and help articles.", colour: "#1F8DED", brand: "intercom", mark: "IC" },
+  { name: "Calendly",       cat: "scheduling",            desc: "Event types, invitees and availability.", colour: "#006BFF", brand: "calendly", mark: "CA" },
+  { name: "Twilio",         cat: "communication",         desc: "SMS, voice and phone number management.", colour: "#F22F46", fb: "phone", mark: "TW" },
+  { name: "Shopify",        cat: "commerce",              desc: "Products, orders, customers and inventory.", colour: "#96BF48", brand: "shopify", mark: "SH" },
+  { name: "1Password",      cat: "security & identity",   desc: "Password manager and digital vault for secure credential storage.", colour: "#0572EC", brand: "1password", mark: "1P" },
+  { name: "AbuseIPDB",      cat: "security & identity",   desc: "Central repository for reporting and checking abusive IPs.", colour: "#C8262A", fb: "warn", mark: "AB" },
+  { name: "ActiveCampaign", cat: "marketing automation",  desc: "Marketing automation and CRM for email campaigns.", colour: "#356AE6", fb: "msg", mark: "AC" },
+  { name: "Ably",           cat: "developer tools",       desc: "Realtime messaging platform for live features.", colour: "#FF5416", fb: "activity", mark: "AY" },
+  { name: "2chat",          cat: "communication",         desc: "Programmable API for WhatsApp and other text channels.", colour: "#1D4ED8", fb: "msg", mark: "2C" },
+  { name: "Abstract",       cat: "developer tools",       desc: "APIs for validation, enrichment and data tasks.", colour: "#111827", brand: "abstract", mark: "AB" },
+  { name: "21risk",         cat: "business intelligence", desc: "Checklists, audits and compliance workflows.", colour: "#16A34A", fb: "check", mark: "21" },
 ];
 
 export const TEMPLATES = [

diff --git a/app/views-core.js b/app/views-core.js
@@ -5,7 +5,7 @@
 import * as S from "./store.js";
 import {
   h, frag, icon, n, money, ago, pageHead, empty, pill, btn, field, input, textarea,
-  select, toggle, choice, tabs, statStrip, group, card, modal, close, toast,
+  select, toggle, choice, tabs, statStrip, group, card, modal, close, toast, brandMark,
 } from "./ui.js";
 
 const go = (hash) => { location.hash = hash; };
@@ -374,7 +374,7 @@ export function Mcp() {
   const body = mcpTab === "mine"
     ? (mine.length
         ? h("div.tiles", {}, ...mine.map((m) => h("div.tile.is-live", {},
-            h("span.tile__mark", { style: { background: "var(--accent)" } }, m.name.slice(0, 2).toUpperCase()),
+            h("span.tile__mark", {}, brandMark(S.MCP_CATALOG.find((c) => c.name === m.name) || { fb: "blocks", colour: "var(--accent)" }, 20)),
             h("span", {}, h("span.tile__n", {}, m.name, pill("Active", "ok")),
               h("span.tile__r", {}, `${m.tools} tools available`)),
             h("button.tile__go", { onclick: () => { S.actions.removeMcp(m.id); toast("Disconnected " + m.name); } }, icon("close", 14)))))
@@ -391,7 +391,7 @@ export function Mcp() {
               const on = mine.some((m) => m.name === t.name);
               return h("button.tile" + (on ? ".is-live" : ""), {
                 onclick: () => { on ? toast(t.name + " already connected", "warn") : (S.actions.connectMcp(t.name), toast("Connected " + t.name)); } },
-                h("span.tile__mark", { style: { background: t.colour } }, t.mark),
+                h("span.tile__mark", {}, brandMark(t, 20)),
                 h("span", {}, h("span.tile__n", {}, t.name, on ? pill("On", "ok") : null),
                   h("span.tile__r", {}, t.desc)),
                 h("span.tile__go", {}, icon(on ? "check" : "arrow", 14)));
@@ -679,7 +679,7 @@ export function Channels() {
             if (on) { S.actions.removeChannel(live.find((c) => c.type === t.id).id); toast(t.name + " disconnected"); }
             else { S.actions.connectChannel(t.id); toast(t.name + " connected"); }
           } },
-          h("span.tile__mark", { style: { background: t.colour } }, t.mark),
+          h("span.tile__mark", {}, brandMark(t, 20)),
           h("span", {}, h("span.tile__n", {}, t.name, on ? pill("Live", "ok") : null), h("span.tile__r", {}, on ? "Answering with Master Agent" : t.req)),
           h("span.tile__go", {}, icon(on ? "check" : "arrow", 14)));
       })));
@@ -722,7 +722,7 @@ export function Inbox() {
   const items = h("div.split__list", {}, ...list.map((c) => {
     const def = S.CHANNEL_TYPES.find((t) => t.id === c.channel);
     return h("button.convo" + (c.id === selected ? ".is-on" : ""), { onclick: () => { selected = c.id; rerender(); } },
-      h("span.convo__mark", { style: { background: def ? def.colour : "var(--accent)" } }, def ? def.mark : "?"),
+      h("span.convo__mark", {}, brandMark(def || { fb: "msg" }, 17)),
       h("span.convo__b", {},
         h("span.convo__top", {}, h("span.convo__n", {}, c.contact), h("span.convo__t", {}, ago(c.at))),
         h("span.convo__p", {}, c.messages[c.messages.length - 1].text)));
@@ -731,7 +731,7 @@ export function Inbox() {
   const def = S.CHANNEL_TYPES.find((t) => t.id === convo.channel);
   const thread = h("div.split__pane", {},
     h("div.thread__head", {},
-      h("span.convo__mark", { style: { background: def ? def.colour : "var(--accent)" } }, def ? def.mark : "?"),
+      h("span.convo__mark", {}, brandMark(def || { fb: "msg" }, 17)),
       h("div", {}, h("p.row__name", {}, convo.contact), h("p.row__meta", {}, `${def ? def.name : convo.channel} · ${ago(convo.at)}`)),
       h("div.row__end", {}, pill("Resolved", "ok"), btn("Delete", { size: "sm", onClick: () => { S.update((st) => { st.conversations = st.conversations.filter((x) => x.id !== convo.id); }); selected = null; rerender(); } }))),
     h("div.thread__log", {}, ...convo.messages.map((m) => h("div.bubble" + (m.from === "user" ? ".is-user" : ".is-agent"), {}, m.text))),

diff --git a/app/views-admin.js b/app/views-admin.js
@@ -5,7 +5,7 @@
 import * as S from "./store.js";
 import {
   h, frag, icon, n, money, ago, pageHead, empty, pill, btn, field, input,
-  select, toggle, choice, tabs, statStrip, group, card, modal, close, toast,
+  select, toggle, choice, tabs, statStrip, group, card, modal, close, toast, brandMark,
 } from "./ui.js";
 import { rerender } from "./views-core.js";
 
@@ -326,7 +326,7 @@ function channelsPanel() {
       ? frag(...live.map((c) => {
           const def = S.CHANNEL_TYPES.find((t) => t.id === c.type);
           return h("div.row", {},
-            h("span.row__icon", { style: { background: def.colour, color: "#fff", borderColor: "transparent" } }, def.mark),
+            h("span.row__icon", {}, brandMark(def, 16)),
             h("div", {}, h("p.row__name", {}, def.name), h("p.row__meta", {}, "Deployed " + ago(c.created))),
             h("div.row__end", {}, pill("Live", "ok", true),
               btn("Disconnect", { size: "sm", onClick: () => { S.actions.removeChannel(c.id); toast(def.name + " disconnected"); } })));

diff --git a/app/ui.js b/app/ui.js
@@ -47,6 +47,21 @@ export function icon(id, size = 16, extra = {}) {
   return svg;
 }
 
+/** A third-party brand mark. Real logo where simple-icons carries one, a
+    functional Lucide glyph in the brand colour where it does not. */
+export function brandMark(def, size = 20) {
+  const svg = document.createElementNS("http://www.w3.org/2000/svg", "svg");
+  svg.setAttribute("class", def.brand ? "brand-i" : "icon");
+  svg.setAttribute("viewBox", "0 0 24 24");
+  svg.style.width = size + "px";
+  svg.style.height = size + "px";
+  svg.style.color = def.colour || "var(--text-2)";
+  const use = document.createElementNS("http://www.w3.org/2000/svg", "use");
+  use.setAttribute("href", (def.brand ? "#b-" : "#i-") + (def.brand || def.fb || "globe"));
+  svg.append(use);
+  return svg;
+}
+
 /** The PXO brand mark. A white-label workspace that has set its own initials
     gets the gradient-square fallback instead. */
 export function logoMark(workspace) {

diff --git a/app/components.css b/app/components.css
@@ -311,3 +311,10 @@ body.is-narrow .logo { height: 22px; }
 .empty.empty--info > .icon { color: var(--accent); }
 .empty.empty--warn { border-left-color: var(--warn); background: var(--warn-soft); border-color: var(--warn-soft); border-left-color: var(--warn); }
 .empty.empty--warn > .icon { color: var(--warn); }
+
+/* Brand marks are filled glyphs, not stroked outlines like Lucide. */
+.brand-i { display: block; flex: none; }
+/* The tile mark holds a logo now, so it is a neutral well rather than a
+   coloured slab with initials in it. */
+.tile__mark { background: var(--well) !important; border: 1px solid var(--border); display: grid; place-items: center; }
+.convo__mark { background: var(--well); border: 1px solid var(--border); }

diff --git a/README.md b/README.md
@@ -75,7 +75,14 @@ Add an entry to `MAP` in that script and re-run it to pull a new icon straight f
 same generator — it carries its own gradient, so it is defined there rather than
 pulled from the icon set.
 
-Icons are chosen for meaning, not convenience: MCP Tools is `blocks` because tool
+Third-party brand marks come from [simple-icons](https://simpleicons.org) (CC0),
+emitted as `#b-<slug>`. Microsoft, Slack, Twilio and Salesforce have had their
+icons **removed from simple-icons at their own trademark request** — those fall
+back to a functional Lucide glyph in the brand colour (`fb:` in the data) rather
+than a hand-drawn approximation of someone's logo. Trademarks belong to their
+owners; used here only to identify the service.
+
+Lucide icons are chosen for meaning, not convenience: MCP Tools is `blocks` because tool
 servers are plugins, Providers is `key-round` because it is a credential store,
 Channels is `waypoints` because it is distribution across thirteen destinations.
 
